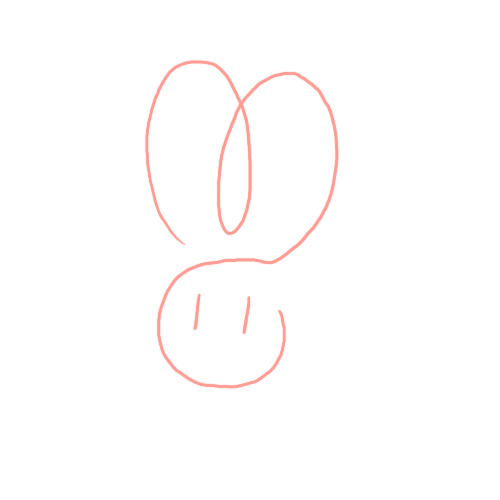
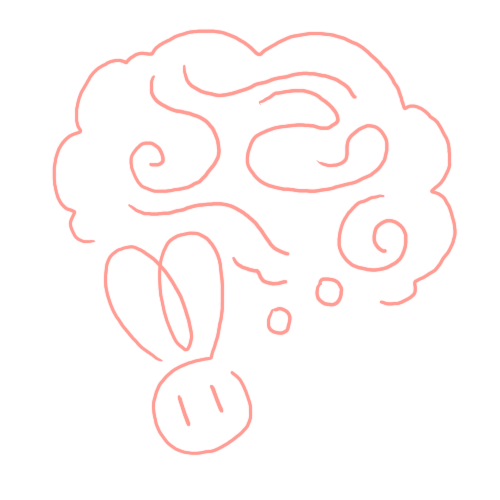
update pics and ui minor fix for mobile

diff --git a/main.html b/main.html
@@ -26,7 +26,7 @@
       <div class="prompt">
         <p><span class="hintPrompt" id="hintPrompt1">+ 提示</span></p>
         <p class="hintText" id="hintText1">这是一段提示。</p>
-        <p><span class="hintPrompt"  id="hintPrompt2">+ 更多提示？</span></p>
+        <p><span class="hintPrompt" id="hintPrompt2">+ 更多提示？</span></p>
         <p class="hintText" id="hintText2">这是另一段提示。</p>
       </div>
 
@@ -34,7 +34,8 @@
         <div id="loots">
         </div>
         <div id="inputs">
-          <input type="text" class="input-box"></input><button class="small-button" id="go">&gt;</button>
+          <input type="text" class="input-box"></input><button class="small-button" id="go"
+            style="color: mediumpurple;border-color: mediumpurple;">&gt;</button>
         </div>
         <div id="outputs">
           <button class="continue large-button">continue</button>

diff --git a/css/main.css b/css/main.css
@@ -1,3 +1,11 @@
+html,
+body {
+  margin: 0;
+  padding: 0;
+  height: 100%;
+  width: 100%;
+}
+
 .content {
   background-color: #161616;
   width: 100%;

diff --git a/js/consts.js b/js/consts.js
@@ -1,4 +1,4 @@
-const DEV = true;
+// const DEV = true;
 
 /*
    ===== PATHS =====
